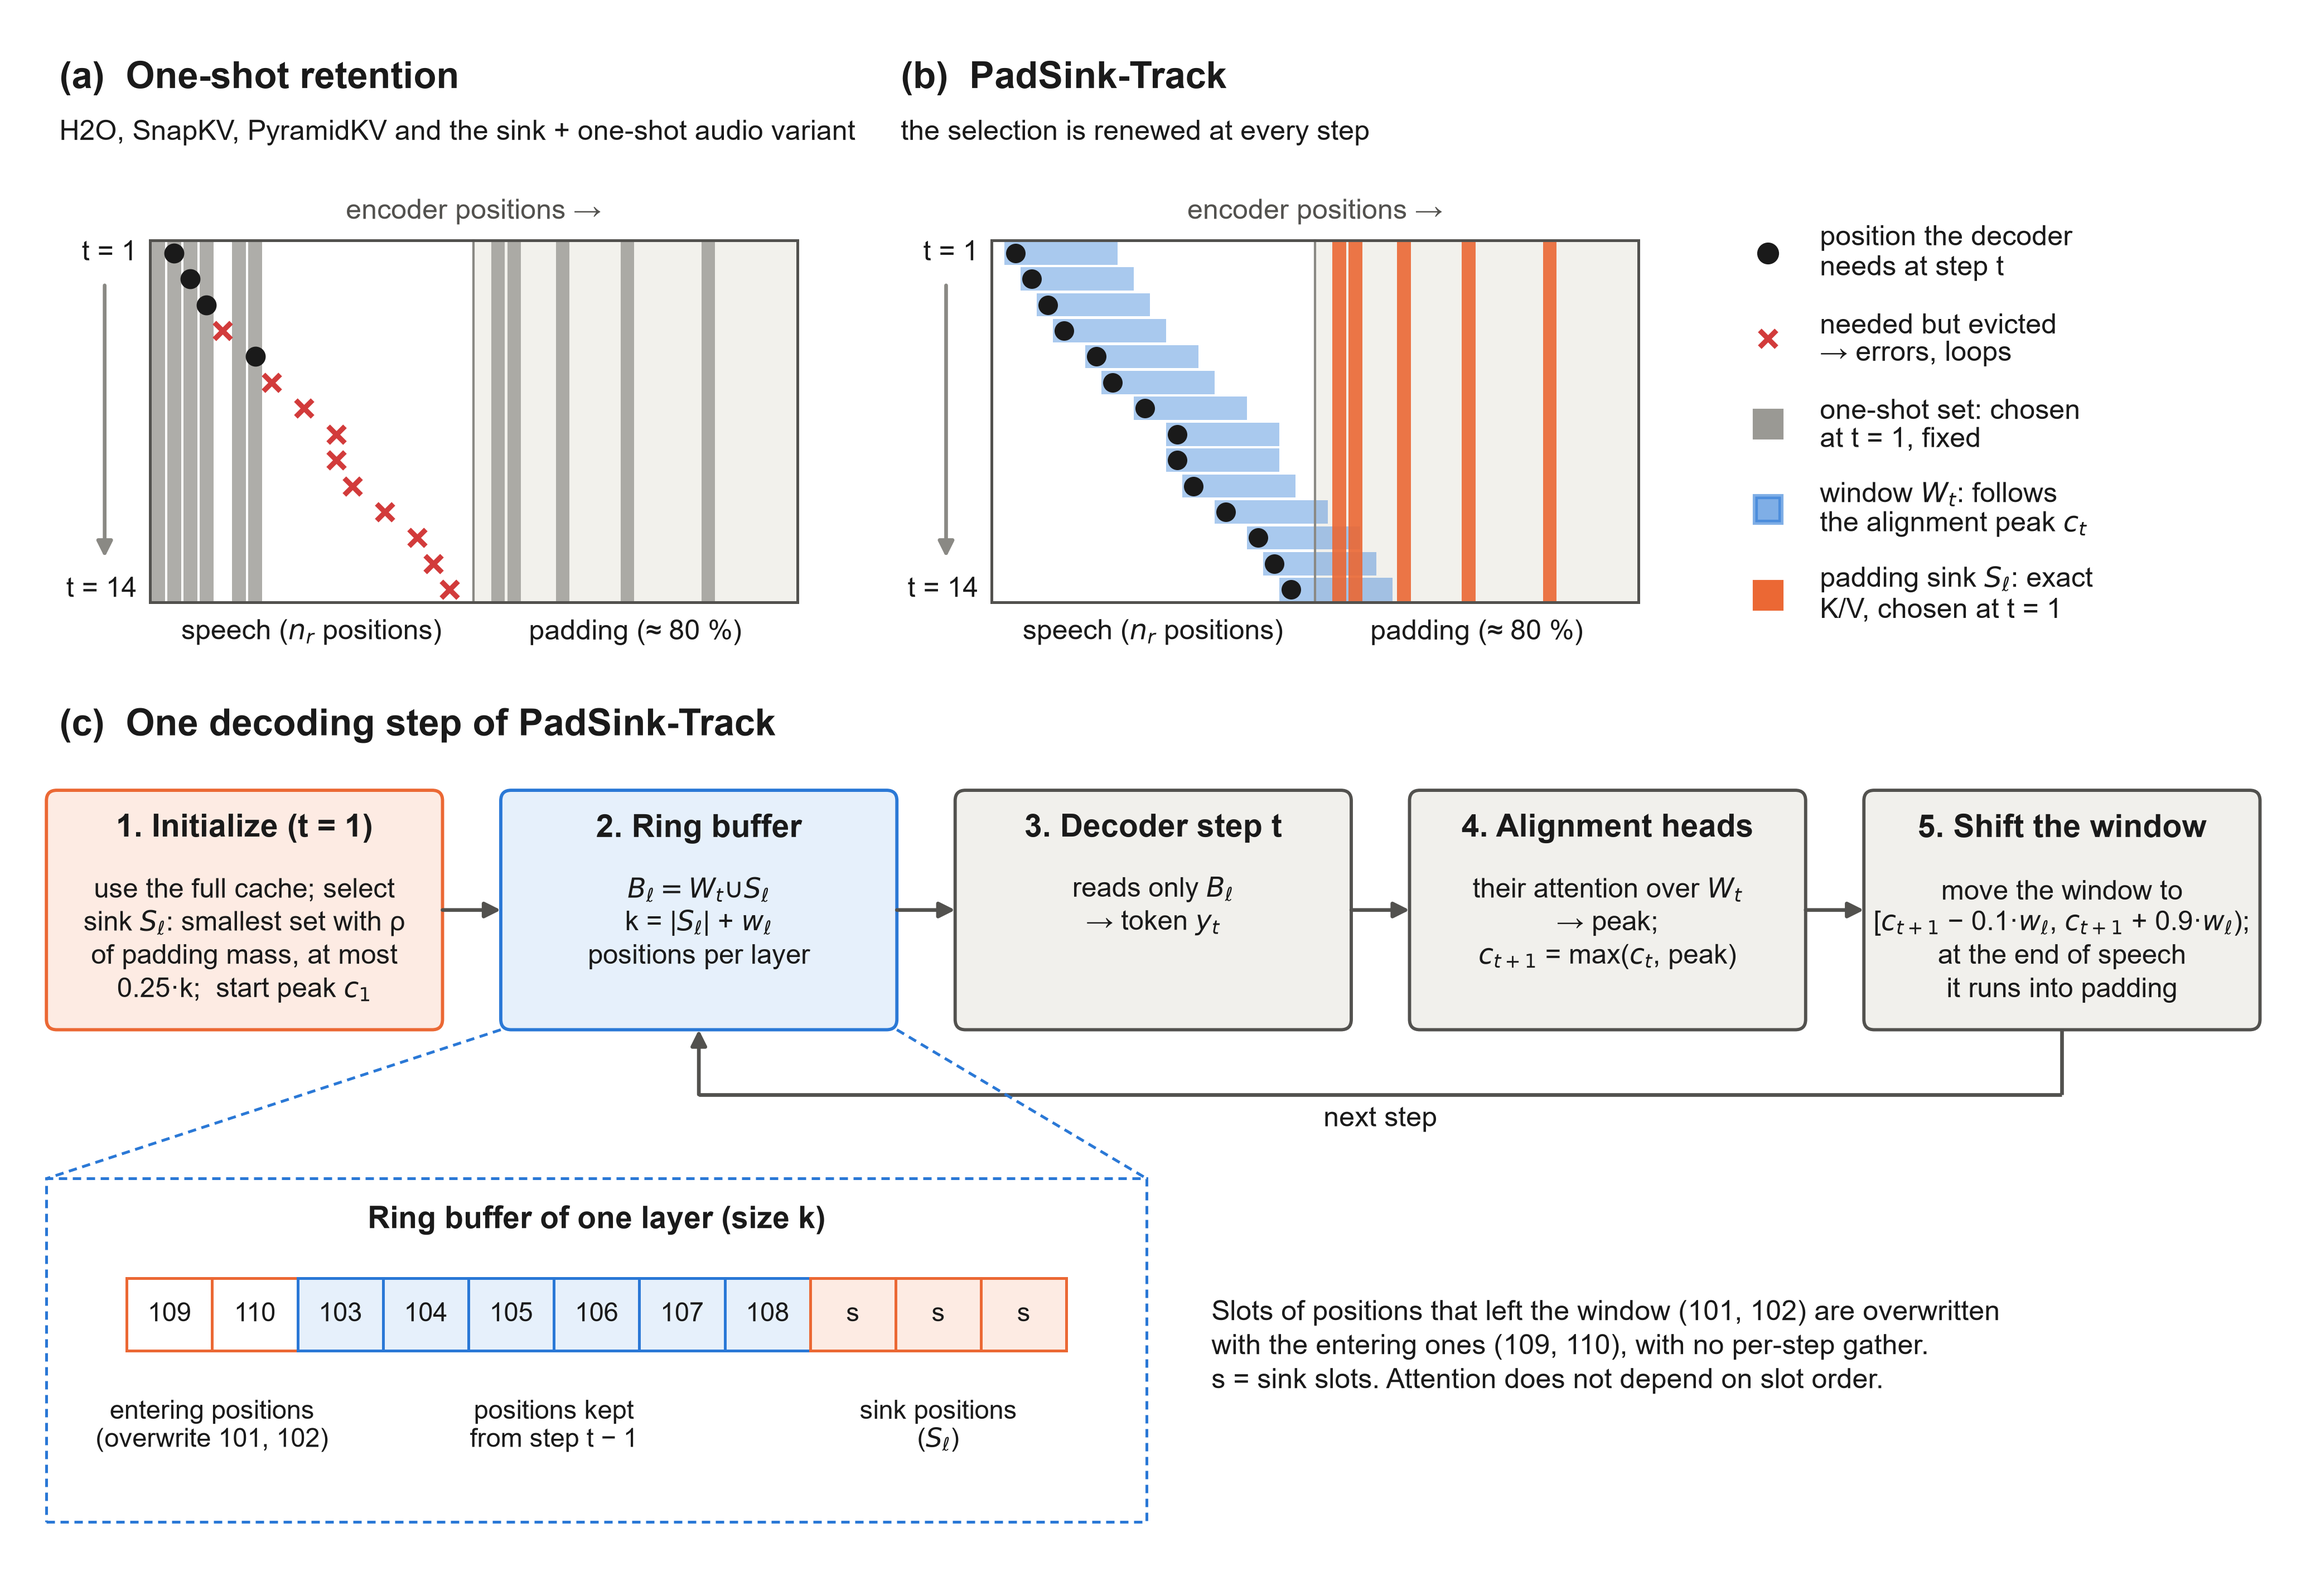
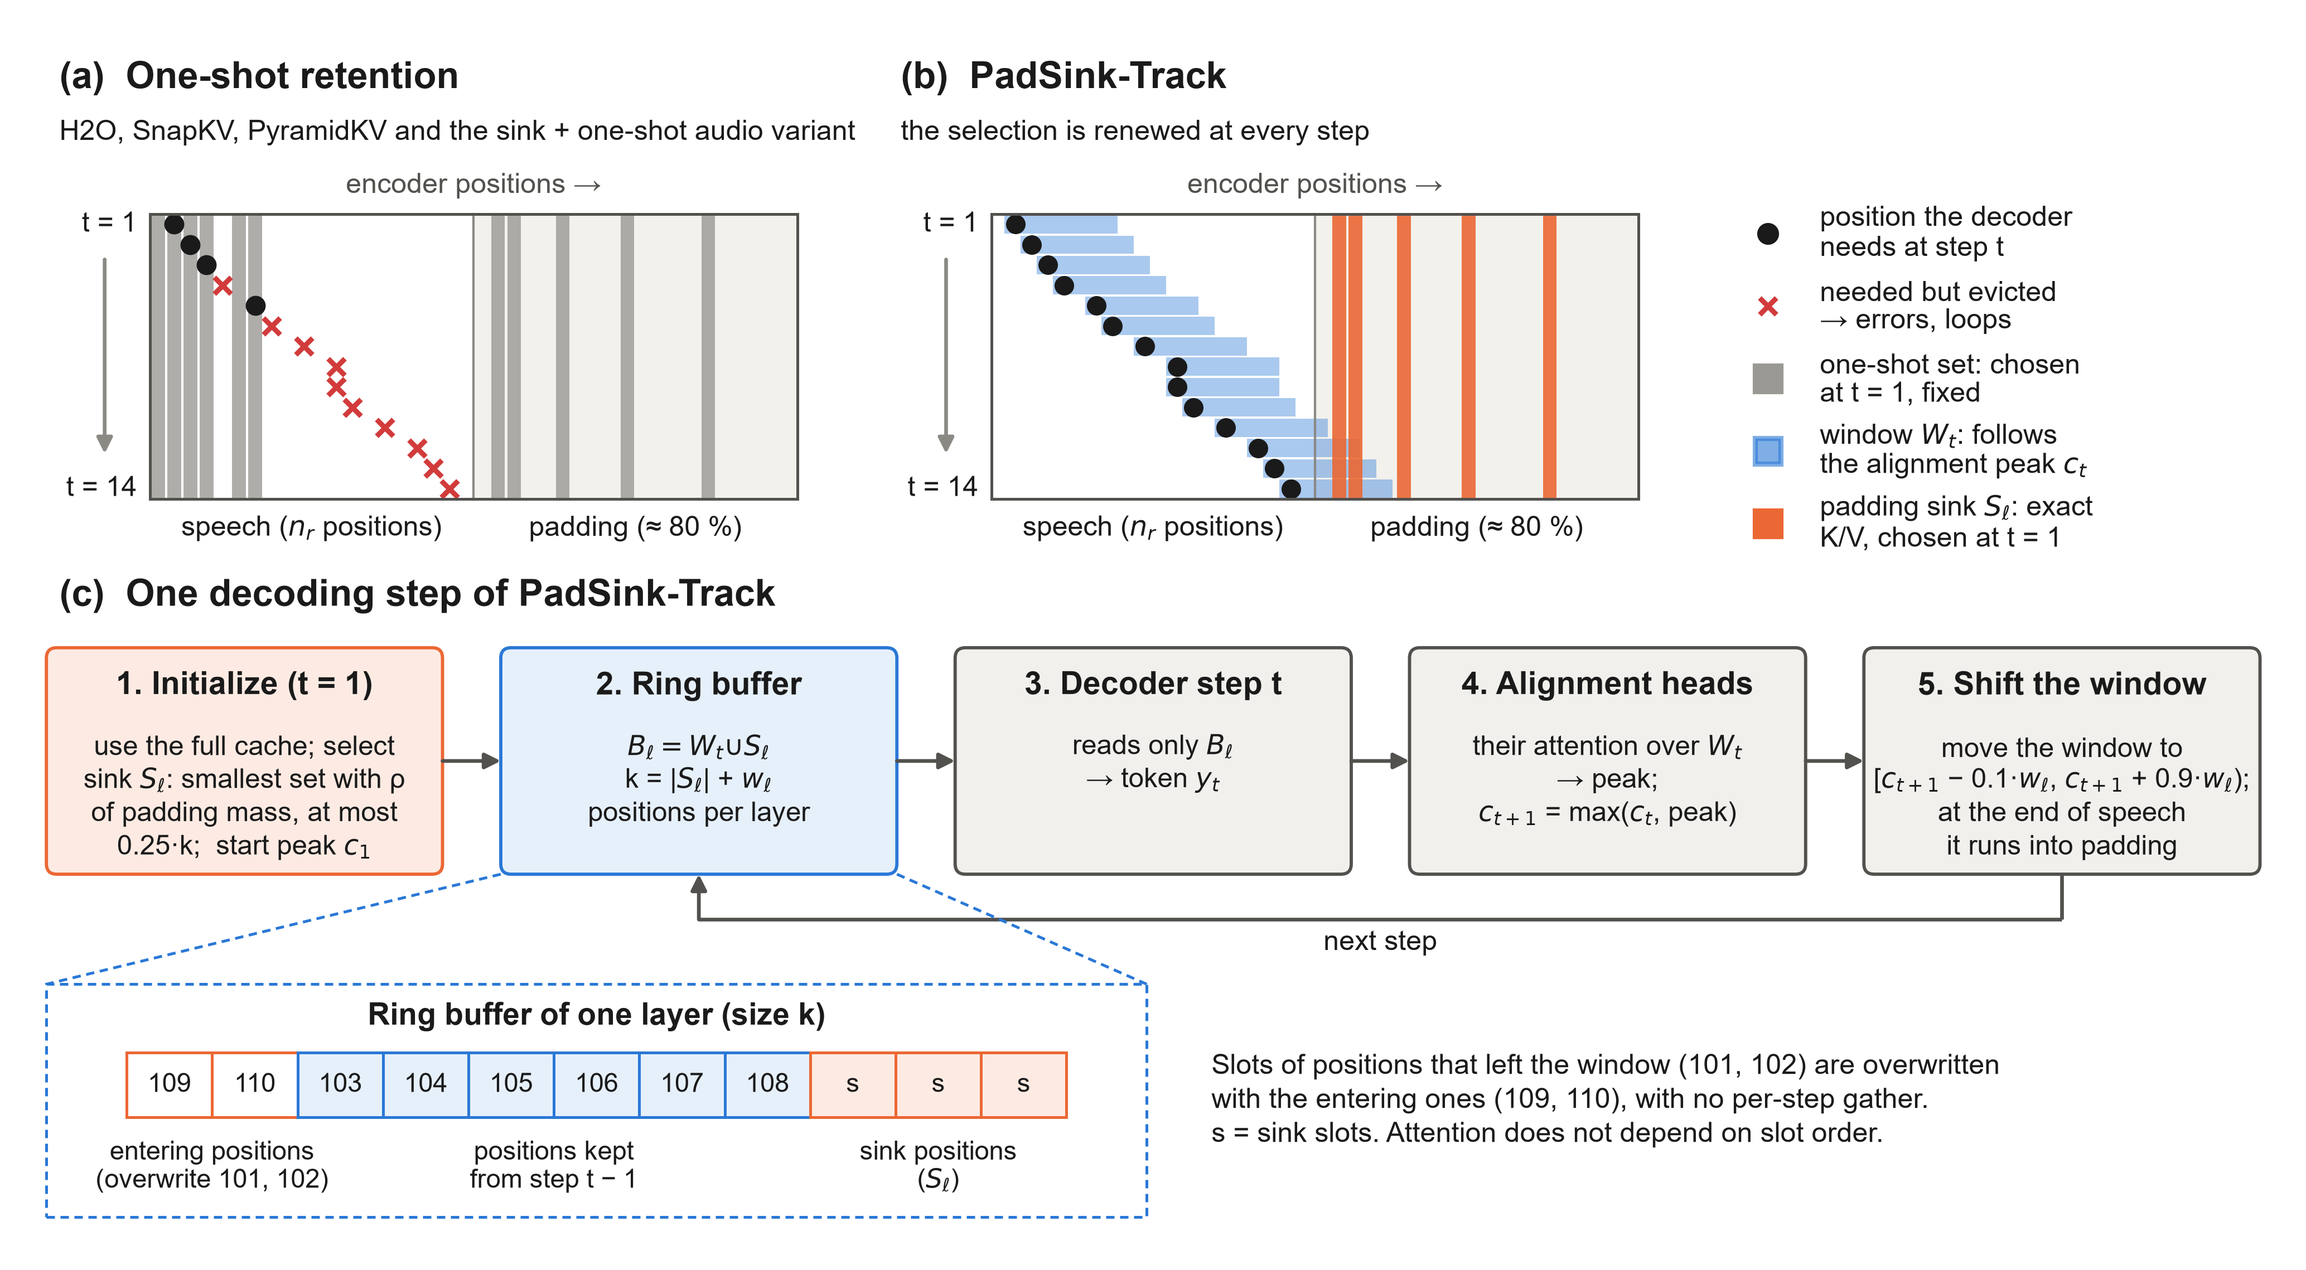
Method schematic: compact layout

diff --git a/experiments/make_figure_method2.py b/experiments/make_figure_method2.py
@@ -20,7 +20,7 @@ from make_figures_track import BLUE, FULL, GREYS, INK, INK2, MUTED, ORANGE, save
 PALE_B, PALE_O, PALE_G = "#e6f0fb", "#fdebe3", "#f1f0ec"
 RED = "#d23b3b"
 DASH = (0, (3, 2))
-X0, X1, Y0, Y1 = 0, 173, 0, 117
+X0, X1, Y0, Y1 = 0, 173, 24, 117
 
 
 def arrow(ax, *pts, color=INK2):
@@ -42,7 +42,7 @@ def main():
     rng = np.random.default_rng(7)
     need = np.clip(np.round(np.linspace(1, RN - 2, T) + rng.normal(0, 0.5, T)), 0, RN - 1).astype(int)
     sinks = np.array([RN + 1, RN + 2, RN + 5, RN + 9, RN + 14])
-    gw, y_top, y_bot = 50.0, 101.0, 73.0
+    gw, y_top, y_bot = 50.0, 103.0, 81.0
     cw, rh = gw / P, (y_top - y_bot) / T
 
     def grid(x0, xt, title, sub):
@@ -87,13 +87,13 @@ def main():
              (BLUE, "s", "window $W_t$: follows\nthe alignment peak $c_t$"),
              (ORANGE, "s", "padding sink $S_ℓ$: exact\nK/V, chosen at t = 1")]
     for n, (col, mk, txt) in enumerate(items):
-        y = 100 - n * 6.6
+        y = 101.5 - n * 5.6
         ax.plot(134, y, marker=mk, ms=5.5 if mk == "s" else 3.6, color=col, mew=1.1, alpha=0.6 if col == BLUE else 1)
         ax.text(138, y, txt, linespacing=1.15, **t)
 
     # (c) the step loop
-    ax.text(2, 63.5, "(c)  One decoding step of PadSink-Track", fontsize=8, fontweight="bold", color=INK, va="center")
-    bw, bh, gap, by = 30.6, 18.5, 4.5, 40.0
+    ax.text(2, 73.5, "(c)  One decoding step of PadSink-Track", fontsize=8, fontweight="bold", color=INK, va="center")
+    bw, bh, gap, by = 30.6, 17.5, 4.5, 52.0
     boxes = [("1. Initialize (t = 1)", "use the full cache; select\nsink $S_ℓ$: smallest set with ρ\nof padding mass, at most\n0.25·k;  start peak $c_1$",
               PALE_O, ORANGE),
              ("2. Ring buffer", "$B_ℓ = W_t ∪ S_ℓ$\nk = |$S_ℓ$| + $w_ℓ$\npositions per layer", PALE_B, BLUE),
@@ -109,24 +109,24 @@ def main():
     for x in xs[:-1]:
         arrow(ax, (x + bw, by + bh / 2), (x + bw + gap, by + bh / 2))
     x5, x2 = xs[4] + bw / 2, xs[1] + bw / 2
-    arrow(ax, (x5, by), (x5, 35), (x2, 35), (x2, by))
-    ax.text((x5 + x2) / 2, 33.1, "next step", ha="center", **t)
+    arrow(ax, (x5, by), (x5, 48.5), (x2, 48.5), (x2, by))
+    ax.text((x5 + x2) / 2, 46.7, "next step", ha="center", **t)
 
     # ring buffer of one layer (zoom of box 2)
-    zx0, zx1, zy0, zy1 = 1.0, 86.0, 2.0, 28.5
+    zx0, zx1, zy0, zy1 = 1.0, 86.0, 25.5, 43.5
     ax.add_patch(Rectangle((zx0, zy0), zx1 - zx0, zy1 - zy0, fc="none", ec=BLUE, lw=0.6, ls=DASH))
     ax.plot([xs[1], zx0], [by, zy1], color=BLUE, lw=0.6, ls=DASH)
     ax.plot([xs[1] + bw, zx1], [by, zy1], color=BLUE, lw=0.6, ls=DASH)
-    ax.text((zx0 + zx1) / 2, 25.3, "Ring buffer of one layer (size k)", ha="center", va="center", fontsize=6.6, fontweight="bold", color=INK)
-    sw, sx, sy, sh = 6.6, 7.2, 15.2, 5.6
+    ax.text((zx0 + zx1) / 2, 41, "Ring buffer of one layer (size k)", ha="center", va="center", fontsize=6.6, fontweight="bold", color=INK)
+    sw, sx, sy, sh = 6.6, 7.2, 33.2, 5.0
     labels = ["109", "110", "103", "104", "105", "106", "107", "108", "s", "s", "s"]
     for n, lab in enumerate(labels):
         fc, ec = ("white", ORANGE) if n < 2 else ((PALE_O, ORANGE) if lab == "s" else (PALE_B, BLUE))
         ax.add_patch(Rectangle((sx + n * sw, sy), sw, sh, fc=fc, ec=ec, lw=0.6))
         ax.text(sx + (n + 0.5) * sw, sy + sh / 2, lab, ha="center", va="center", fontsize=5.6, color=INK)
     for c, txt in ((1, "entering positions\n(overwrite 101, 102)"), (5, "positions kept\nfrom step t − 1"), (9.5, "sink positions\n($S_ℓ$)")):
-        ax.text(sx + c * sw, 9.4, txt, ha="center", linespacing=1.15, **{**t, "fontsize": 5.6})
-    ax.text(91, 15.5,
+        ax.text(sx + c * sw, 29.4, txt, ha="center", linespacing=1.15, **{**t, "fontsize": 5.6})
+    ax.text(91, 34.5,
             "Slots of positions that left the window (101, 102) are overwritten\n"
             "with the entering ones (109, 110), with no per-step gather.\n"
             "s = sink slots. Attention does not depend on slot order.", linespacing=1.3, **t)
